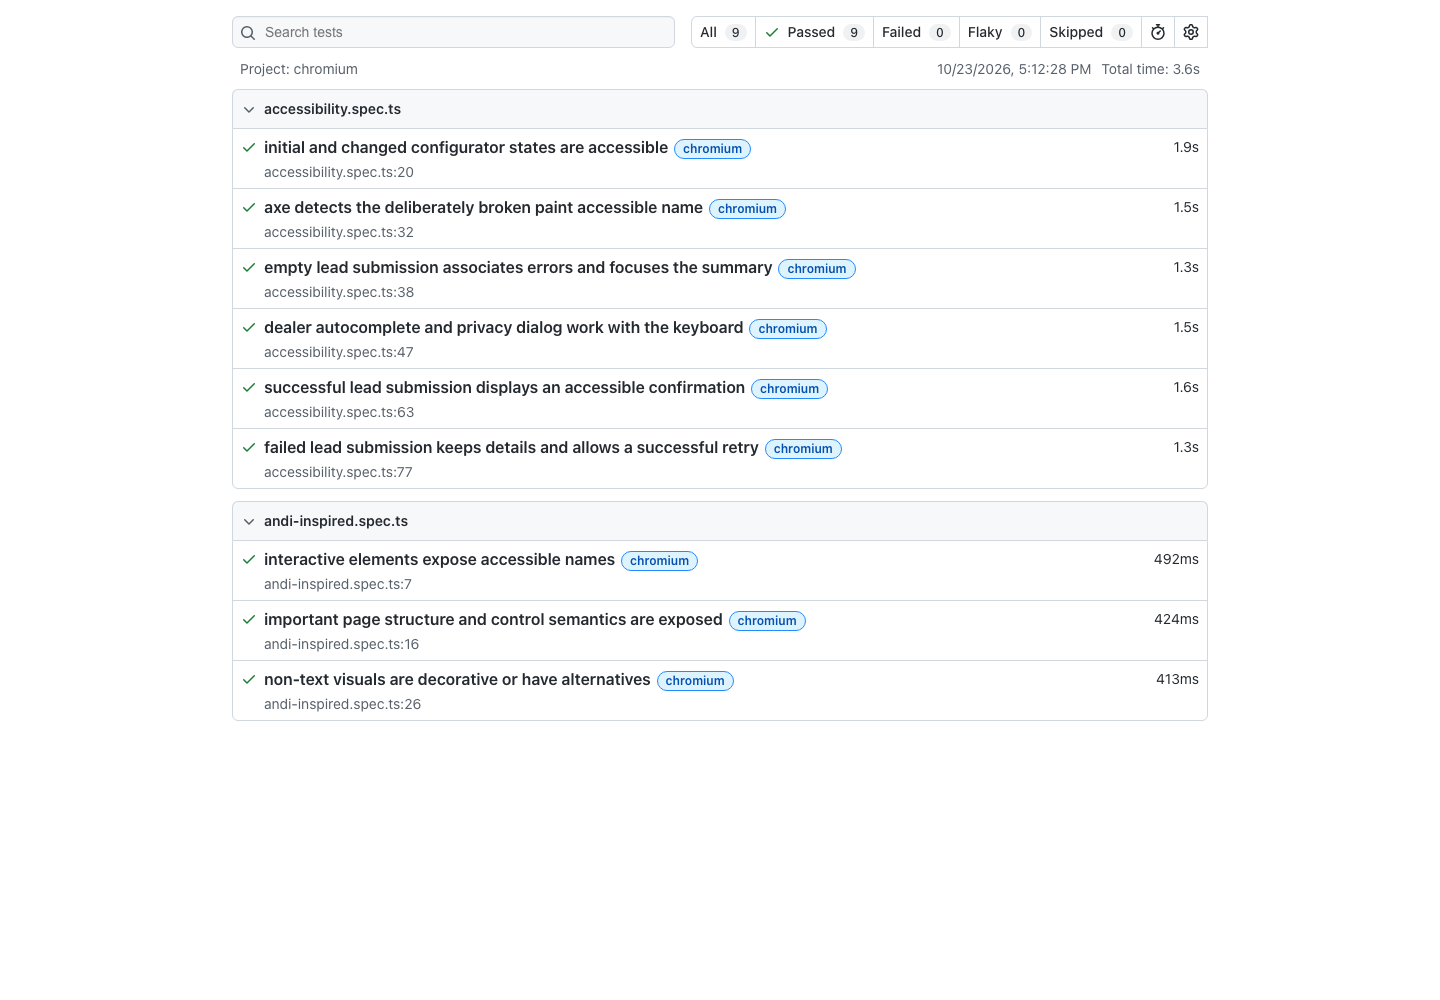
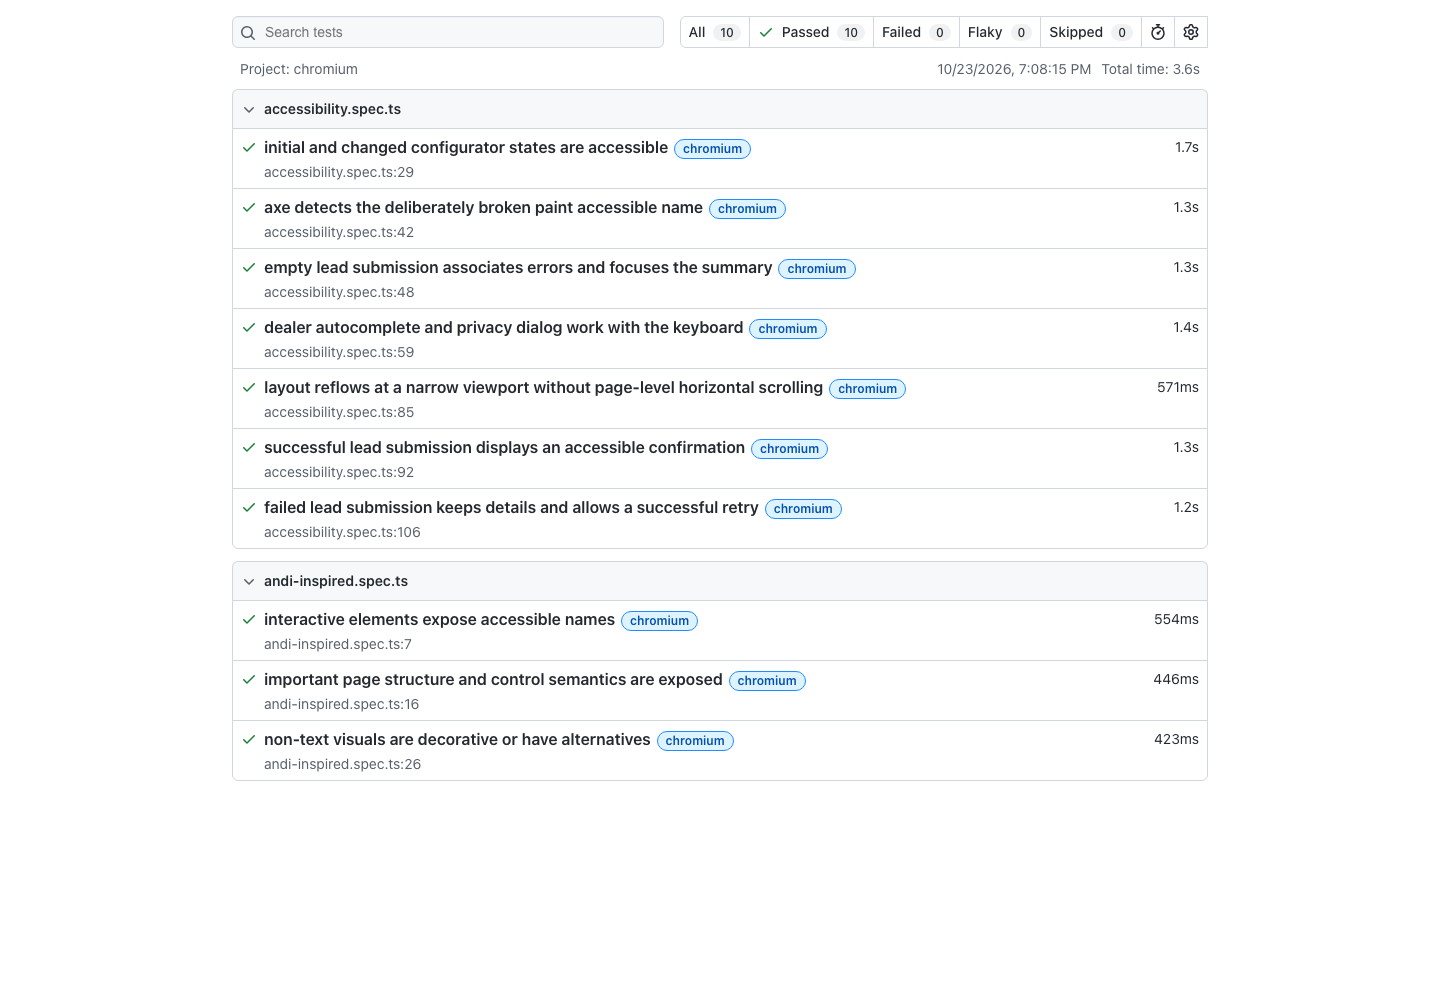
Add responsive overflow checks and update README

diff --git a/framework/playwright-accessibility/src/assertions.ts b/framework/playwright-accessibility/src/assertions.ts
@@ -1,4 +1,4 @@
-import { expect, type Locator } from '@playwright/test';
+import { expect, type Locator, type Page } from '@playwright/test';
 
 export async function expectAccessibleName(locator: Locator, name: string | RegExp) {
   await expect(locator).toHaveAccessibleName(name);
@@ -95,5 +95,33 @@ export async function expectComboboxState(combobox: Locator, options: ComboboxSt
   if (options.selectedOption) {
     await expect(options.selectedOption).toHaveAttribute('role', 'option');
     await expect(options.selectedOption).toHaveAttribute('aria-selected', 'true');
+  }
+}
+
+export type HorizontalOverflowOptions = {
+  tolerance?: number;
+  allowedScrollableRegions?: readonly Locator[];
+};
+
+export async function expectNoHorizontalOverflow(page: Page, options: HorizontalOverflowOptions = {}) {
+  const tolerance = options.tolerance ?? 1;
+  const { viewportWidth, documentWidth } = await page.evaluate(() => ({
+    viewportWidth: window.innerWidth,
+    documentWidth: Math.max(document.documentElement.scrollWidth, document.body.scrollWidth),
+  }));
+
+  expect(
+    documentWidth,
+    `Expected document width (${documentWidth}px) not to exceed viewport width (${viewportWidth}px) by more than ${tolerance}px`,
+  ).toBeLessThanOrEqual(viewportWidth + tolerance);
+
+  for (const region of options.allowedScrollableRegions ?? []) {
+    const dimensions = await region.evaluate((element) => ({
+      overflowX: window.getComputedStyle(element).overflowX,
+      clientWidth: element.clientWidth,
+      scrollWidth: element.scrollWidth,
+    }));
+    expect(['auto', 'scroll'], 'Allowed regions must explicitly support horizontal scrolling').toContain(dimensions.overflowX);
+    expect(dimensions.scrollWidth, 'Allowed scroll regions should contain horizontally scrollable content').toBeGreaterThan(dimensions.clientWidth);
   }
 }

diff --git a/framework/playwright-accessibility/tests/assertions.test.js b/framework/playwright-accessibility/tests/assertions.test.js
@@ -6,6 +6,7 @@ import {
   expectFocusRestored,
   expectFocusWithin,
   expectLiveRegionUpdate,
+  expectNoHorizontalOverflow,
   expectValidationAssociation,
 } from '../dist/assertions.js';
 
@@ -37,6 +38,26 @@ test('live-region and combobox helpers verify announcement semantics and relatio
       listbox: page.locator('#dealers'),
       activeOption: page.locator('#dealer-option'),
     }));
+  } finally {
+    await browser.close();
+  }
+});
+
+test('responsive layout helper permits explicit nested scrolling and detects document overflow', async () => {
+  const browser = await chromium.launch();
+  try {
+    const page = await browser.newPage({ viewport: { width: 400, height: 800 } });
+    await page.setContent(`
+      <div id="table-scroll" style="width: 300px; overflow-x: auto"><div style="width: 600px; height: 20px"></div></div>
+    `);
+    await expectNoHorizontalOverflow(page, { allowedScrollableRegions: [page.locator('#table-scroll')] });
+    await page.locator('body').evaluate((body) => {
+      const overflowingContent = document.createElement('div');
+      overflowingContent.style.width = '600px';
+      overflowingContent.style.height = '20px';
+      body.append(overflowingContent);
+    });
+    await assert.rejects(() => expectNoHorizontalOverflow(page, { allowedScrollableRegions: [page.locator('#table-scroll')] }));
   } finally {
     await browser.close();
   }

diff --git a/demo-app-automotive/tests/accessibility.spec.ts b/demo-app-automotive/tests/accessibility.spec.ts
@@ -3,6 +3,7 @@ import {
   collectAccessibilityResults,
   expectComboboxState,
   expectLiveRegionUpdate,
+  expectNoHorizontalOverflow,
   expectFocusRestored,
   expectFocusWithin,
   expectValidationAssociation,
@@ -79,6 +80,13 @@ test('dealer autocomplete and privacy dialog work with the keyboard', async ({ p
   await expect(dialog).not.toBeVisible();
   await expectFocusRestored(dialogTrigger);
   await auditAccessibility(page, testInfo, { label: 'dealer-and-dialog' });
+});
+
+test('layout reflows at a narrow viewport without page-level horizontal scrolling', async ({ page }) => {
+  await page.setViewportSize({ width: 375, height: 812 });
+  await expectNoHorizontalOverflow(page);
+  await expect(page.getByRole('heading', { level: 1, name: 'Made for your kind of journey.' })).toBeVisible();
+  await expect(page.getByRole('button', { name: 'Send my enquiry' })).toBeVisible();
 });
 
 test('successful lead submission displays an accessible confirmation', async ({ page }, testInfo) => {

diff --git a/demo-app-stock-portfolio/tests/accessibility.spec.ts b/demo-app-stock-portfolio/tests/accessibility.spec.ts
@@ -2,6 +2,7 @@ import {
   auditAccessibility,
   expectAccessibleName,
   expectLiveRegionUpdate,
+  expectNoHorizontalOverflow,
   expectFocusWithin,
   expectValidationAssociation,
 } from '@poc/playwright-accessibility';
@@ -9,6 +10,13 @@ import { expect, test } from '@playwright/test';
 
 test.beforeEach(async ({ page }) => {
   await page.goto('/');
+});
+
+test('mobile layout avoids page overflow and keeps the holdings table scrollable', async ({ page }) => {
+  await page.setViewportSize({ width: 375, height: 812 });
+  await expectNoHorizontalOverflow(page, { allowedScrollableRegions: [page.locator('.table-scroll')] });
+  await expect(page.getByRole('heading', { level: 1, name: 'Your portfolio' })).toBeVisible();
+  await expect(page.getByRole('button', { name: 'Review buy order' })).toBeVisible();
 });
 
 test('portfolio overview and holdings table are accessible', async ({ page }, testInfo) => {

diff --git a/framework/playwright-accessibility/src/index.ts b/framework/playwright-accessibility/src/index.ts
@@ -7,7 +7,9 @@ export {
   expectValidationAssociation,
   expectLiveRegionUpdate,
   expectComboboxState,
+  expectNoHorizontalOverflow,
   type ComboboxStateOptions,
+  type HorizontalOverflowOptions,
   type LiveRegionOptions,
 } from './assertions.js';
 export { normalizeAccessibilityFindings, type NormalizedAccessibilityFinding } from './findings.js';

diff --git a/framework/playwright-accessibility/README.md b/framework/playwright-accessibility/README.md
@@ -9,7 +9,7 @@ Automated scans help identify programmatically detectable issues; they do not pr
 - Runs axe-core against the current page using WCAG 2.0, 2.1, and 2.2 A/AA tags by default.
 - Attaches full axe results and a compact summary to the current Playwright test.
 - Fails `auditAccessibility` when axe reports violations.
-- Provides helpers for accessible names, descriptions, focus containment/restoration, validation-error associations, live-region updates, and combobox state relationships.
+- Provides helpers for accessible names, descriptions, focus containment/restoration, validation-error associations, live-region updates, combobox state relationships, and responsive horizontal-overflow checks.
 - Normalizes axe violations to an app-independent finding format for custom reporting.
 
 The app test remains responsible for navigation, waiting for a meaningful state, choosing scan points, test data, service mocks, business assertions, and expected names/roles/states. The framework has no app-specific selectors or service behavior. It does not currently implement baselines, waivers, CI workflows, or issue-tracker integrations.
@@ -105,6 +105,8 @@ test('trade form exposes its labels and validation state', async ({ page }) => {
 
 `expectLiveRegionUpdate(region, expectedText, options)` verifies a caller-provided live region has the requested polite/assertive semantics and contains expected text after the app test triggers an update. It does not observe or certify spoken screen-reader output. `expectComboboxState(combobox, options)` can assert `aria-expanded`, the controlled listbox relationship, active descendant, selected option, and current value when those locators/states are supplied. The app test still performs the keyboard actions and defines the expected behavior.
 
+`expectNoHorizontalOverflow(page, options)` verifies the document width does not exceed the viewport beyond an optional pixel tolerance. Pass known horizontally scrollable regions through `allowedScrollableRegions`; each must explicitly use `overflow-x: auto` or `scroll` and contain wider content. This recognizes intentional nested scrolling but does not exempt document-level overflow. The consumer chooses the viewport and asserts that essential content remains usable.
+
 ## Collect findings without failing
 
 Most tests should use `auditAccessibility`, which fails on findings. `collectAccessibilityResults` is available when a test needs to inspect results without an immediate assertion, such as a deliberate-defect demonstration:
@@ -138,7 +140,7 @@ The framework does not create tickets or define product severity, owners, dedupl
 
 ## Manual checks: automation opportunities and boundaries
 
-Many manual checks contain repeatable assertions that can be automated. The framework standardizes generic mechanics, while each app test supplies its controls, expected behavior, and meaningful state. The package currently provides axe scans, accessible-name/description assertions, focus containment/restoration, validation-error association, and finding normalization. Other checks below are performed directly in app tests or remain future additions.
+Many manual checks contain repeatable assertions that can be automated. The framework standardizes generic mechanics, while each app test supplies its controls, expected behavior, viewport, and meaningful state. The package currently provides axe scans, accessible-name/description assertions, focus containment/restoration, validation-error association, live-region/combobox assertions, responsive horizontal-overflow checks, and finding normalization. Other checks below are performed directly in app tests or remain future additions.
 
 | Check area | Reusable framework potential | App-specific test responsibility | Still needs human review |
 |---|---|---|---|
@@ -147,7 +149,7 @@ Many manual checks contain repeatable assertions that can be automated. The fram
 | Forms and errors | `expectValidationAssociation` verifies invalid state and error-description association | Supply fields, validation actions, expected errors, and recovery behavior | Whether error messages and recovery instructions are clear |
 | Dynamic announcements | `expectLiveRegionUpdate` checks live semantics and expected text after an app-triggered update | Trigger the update and define expected pricing/status/results | Whether announcements are timely, non-duplicative, and useful with a screen reader |
 | Autocomplete | `expectComboboxState` checks supplied expanded/listbox/active/selected/value relationships | Define the widget's supported keys, expected options, and selection behavior | Whether the interaction and announcements make sense to users |
-| Responsive reflow | Optional viewport smoke checks or generic overflow detection | Choose supported viewports and assert critical content remains usable | Browser zoom, enlarged text, and real-device usability |
+| Responsive reflow | `expectNoHorizontalOverflow` checks document overflow and validates explicitly allowed scroll regions | Choose supported viewports and assert critical content remains usable | Browser zoom, enlarged text, and real-device usability |
 | Structure and alternatives | Existing axe scans and accessible-name/description helpers; additional reusable assertions could be added | State which headings, landmarks, tables, and image alternatives are expected | Whether the hierarchy and alternatives convey the content correctly |
 
 Automated checks do not verify actual screen-reader output. Keep targeted keyboard, screen-reader, zoom/reflow, and usability reviews in each product's accessibility test plan.
@@ -175,13 +177,13 @@ The app test still owns opening/closing dialogs, submitting forms, correcting in
 
 **Acceptance:** Framework tests cover valid and invalid live-region/combobox relationships, both demos exercise the helpers, and documentation states that DOM assertions cannot confirm spoken announcements.
 
-### Phase 3: Responsive smoke checks
+### Phase 3: Responsive smoke checks (implemented)
 
-- Add an opt-in `expectNoHorizontalOverflow(page, options)` check for the document at a caller-selected viewport.
-- Permit explicit exclusions for intentionally scrollable regions such as data tables; keep exclusions narrow and visible in test code.
-- Keep viewport selection, critical content assertions, browser zoom testing, and expected responsive behavior app-owned.
-
-**Acceptance:** Framework tests verify both document-level overflow detection and allowed nested scroll regions; demo tests cover a small viewport without relying on screenshot pixel comparisons.
+- `expectNoHorizontalOverflow(page, options)` checks document overflow at the viewport selected by the app test.
+- `allowedScrollableRegions` explicitly identifies nested scroll containers and verifies each permits horizontal scrolling and contains wider content; it does not suppress document-level overflow.
+- Both demos test at a 375px viewport. The portfolio demo explicitly permits its horizontally scrollable holdings table.
+- Framework tests cover a valid nested scroller and detect actual document-level overflow.
+- Viewport selection, essential-content assertions, browser zoom testing, and expected responsive behavior remain app-owned.
 
 ### Phase 4: Stabilize and publish the API
 

diff --git a/README.md b/README.md
@@ -1,6 +1,8 @@
-# Automotive Accessibility POC Workspace
+# Playwright Accessibility Framework and Demos
 
-This repository contains a reusable Playwright accessibility package and two mock apps that demonstrate it: an automotive configurator and a stock portfolio.
+A reusable TypeScript/Playwright accessibility package, demonstrated by two independent mock applications: an automotive configurator and a stock portfolio. The framework combines axe-core scans with reusable assertions for accessible names, focus, form errors, live regions, combobox state, and responsive overflow.
+
+All application data and service responses are synthetic. The demos do not connect to a real dealer, CRM, brokerage, or financial service.
 
 ## Screenshots
 
@@ -14,38 +16,47 @@ This repository contains a reusable Playwright accessibility package and two moc
 
 ### Playwright test reports
 
-Automotive demo: 9 tests passed.
+The current screenshots show 10 passing automotive tests and 6 passing portfolio tests.
 
 ![Automotive Playwright test report](screenshots/automotive-test-report.png)
 
-Stock portfolio demo: 5 tests passed.
-
 ![Stock portfolio Playwright test report](screenshots/stock-portfolio-test-report.png)
 
-Example failure report from a temporary test that injected unnamed button/link, missing image alternative, and missing form label defects:
+The following report is an intentional failure demonstration. A temporary test injected an unnamed button and link, an image without alternative text, and a form control without a label. These defects are not part of the normal passing test suites.
 
 ![Playwright report showing multiple accessibility rule failures](screenshots/accessibility-errors-report.png)
 
+## Repository layout
+
 ```text
-framework/playwright-accessibility/  Shared audit utilities and assertions
-demo-app-automotive/                 Automotive configurator demo and tests
-demo-app-stock-portfolio/             Mock stock portfolio demo and tests
+framework/playwright-accessibility/  Shared accessibility helpers
+demo-app-automotive/                 Automotive configurator and tests
+demo-app-stock-portfolio/            Stock portfolio and tests
+screenshots/                          Demo and test-report images
 ```
 
+Each demo owns its application behavior, synthetic data, service mocks, locators, and test states. The shared framework is consumed through the repository's npm workspace. It is not published to npm yet.
+
 ## Setup
+
+Install dependencies and the Chromium browser:
 
 ```bash
 npm install
 npx playwright install chromium
 ```
 
-## Run the demo
+On Linux, install any additional browser system dependencies required by your environment.
+
+## Run the demos
+
+Start the automotive configurator:
 
 ```bash
 npm run dev:automotive
 ```
 
-Run the stock portfolio demo with:
+Start the stock portfolio:
 
 ```bash
 npm run dev:stock-portfolio
@@ -53,16 +64,33 @@ npm run dev:stock-portfolio
 
 ## Build and test
 
+Build the framework and both applications, then run the framework unit tests and both Playwright suites:
+
 ```bash
 npm run build
 npm test
 ```
 
-## Framework documentation
+Run a single test suite:
 
-See [`framework/playwright-accessibility/README.md`](framework/playwright-accessibility/README.md) for setup, usage examples, scan options, reporting, and integration guidance.
+```bash
+npm run test --workspace=@poc/playwright-accessibility
+npm run test --workspace=automotive-accessibility-demo
+npm run test --workspace=stock-portfolio-accessibility-demo
+```
 
-Each demo app owns its journey, synthetic data, service mocks, page behavior, and state selection. The shared package owns reusable axe scans, attachments, finding normalization, and thin Playwright accessible-name assertions. Automated scans do not replace manual keyboard and assistive-technology testing.
+## Use the framework
+
+The framework's API, setup guidance, usage examples, reporting behavior, limitations, and integration notes are documented in [`framework/playwright-accessibility/README.md`](framework/playwright-accessibility/README.md).
+
+At a glance, the package provides:
+
+- axe-core scans using WCAG 2.0, 2.1, and 2.2 A/AA tags, with results attached to Playwright tests.
+- Playwright helpers for accessible names and descriptions, focus containment/restoration, and validation-error associations.
+- Assertions for live-region semantics, combobox relationships, and document-level horizontal overflow at selected viewports.
+- A normalized finding format for application-owned reporting.
+
+App tests choose meaningful states and expected behavior. Automated checks do not establish WCAG conformance or replace manual keyboard, screen-reader, zoom/reflow, and usability testing.
 
 ## License
 
